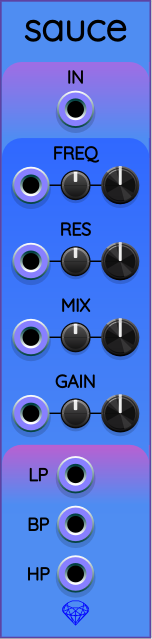
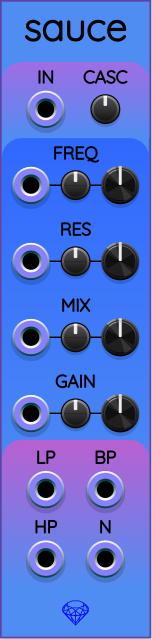
Sauce: updated change log and screenshot.

Changed region(s): [[0.0, 0.6839, 1.0, 0.9515], [0.1579, 0.0892, 0.8421, 0.2081]]

diff --git a/CHANGELOG.md b/CHANGELOG.md
@@ -9,12 +9,14 @@
 </tr>
 
 <tr valign="top">
-    <td align="center">11 May 2026</td>
+    <td align="center">16 May 2026</td>
     <td align="center">2.6.005</td>
     <td align="left">
         <ul>
             <li>Added a fader button to <a href="doc/Echo.md">Echo</a> to reduce the pitch-shifting distortion after a clear or reset occurs.</li>
             <li><a href="doc/Empath.md">Empath</a> now includes a button to create another Empath filter chain in series with the current chain.</li>
+            <li><a href="doc/Sauce.md">Sauce</a> now has a notch filter output, along with the existing lowpass, bandpass, and highpass filters.</li>
+            <li>Sauce has another new feature: a CASCADE control that allows you to chain 1..3 filters in series.</li>
         </ul>
     </td>
 </tr>